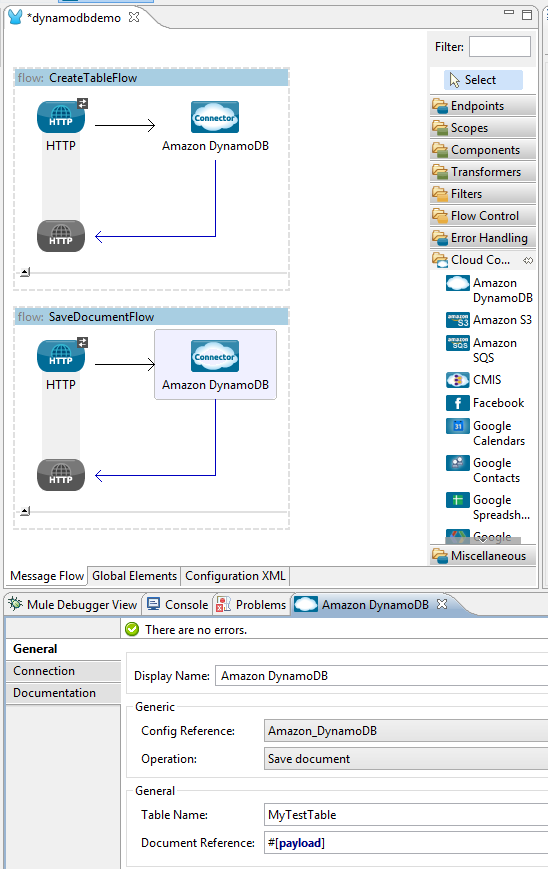
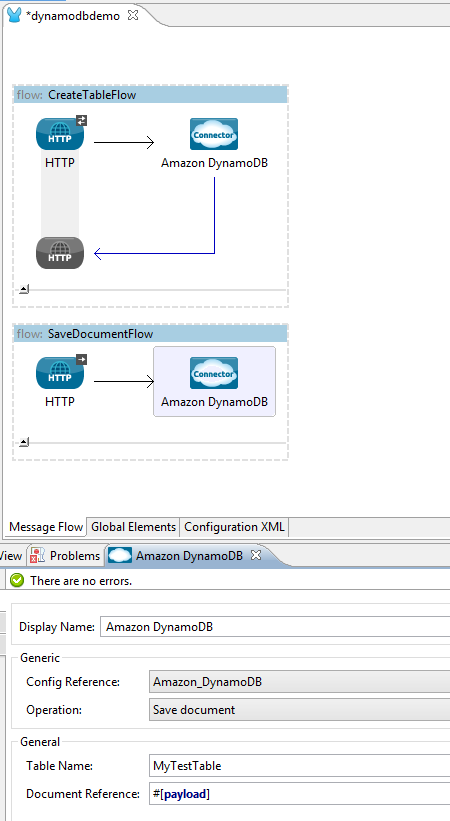
Added instructions to the "Save Document" tutorial

Changed region(s): [[0.0, 0.0, 1.0, 1.0], [0.4978, 0.5786, 0.5289, 0.609]]

diff --git a/doc/sample.md b/doc/sample.md
@@ -45,7 +45,8 @@ In order to build and run this project you'll need:
 * TBD: NOT NEEDED for this documentation?? - (optional) [Intelli-J IDEA](http://www.jetbrains.com/idea/download/) or [Eclipse](http://www.eclipse.org/downloads/)
 
 
-
+The entire Mule Studio project can be found in [GitHub](https://github.com/sporcina/dynamodb-connector/tree/master/dynamodbdemo).  You can download it from there if you don't want to create everything
+from scratch.
 
 
 
@@ -139,7 +140,7 @@ Your **Amazon DynamoDB** endpoint should look like this:
 
 ![Create a table](images/Step3-2.png)
 
-*   To test your flow:
+*   To run your flow:
     *   Select your flow to highlight it
     *   From the **Run** menu, select **Run As** then **Mule Application**
     *   Launch your web browser and navigate to "http://localhost:8081/createTable"
@@ -162,13 +163,14 @@ Now that we have a table, we can save information to it.  For the purpose of thi
 
 *   Create a new flow by again drag-and-dropping the HTTP endpoint from the Palette tool bar, to the Message Flow canvas, below "CreateTableFlow".
 *   Rename it to read **SaveDocumentFlow**
+*   Change the "Exchange Pattern" to **one-way**.  Feel free to keep it at "request-response" if you want to return an HTTP response at the end of the flow.  Creating an HTTP response is not covered in this tutorial.
 *   Type **saveDocument** in the path field
 
 Your screen will look like this:
 
 ![Save a Document - created a new flow](images/Step4-1.png)
 
-*   Again, drag and drop the **Amazon DynamoDB** Cloud Connector from the Palette tool bar, in to the "saveDocument" flow
+*   Again, drag and drop the **Amazon DynamoDB** Cloud Connector from the Palette tool bar, in to the "SaveDocument" flow
 *   Set the "Config Reference" in the properties for the DynamoDB Cloud Connector to "Amazon_DynamoDB"
 *   Change the Operation to "Save document"
 *   In the **Table Name** field, type "MyTestTable".  This is the name of the table we create earlier.
@@ -178,7 +180,43 @@ Your screen will look like this:
 We've got the basics the flow setup, which is very similar to the previous flow we created.  Now we'll add new elements to
 the flow which will help us create and observe data to save to the table.
 
-*
+TBD: does it matter if the reader does not have Java installed?
+
+*   Select the following links to download two files: the fake customer data model, and our message transformer
+    *   [FakeCustomer.java](https://github.com/sporcina/dynamodb-connector/blob/master/dynamodbdemo/src/main/java/org/mule/modules/dynamodb/demo/models/FakeCustomer.java)
+    *   [HttpCreateDocumentToFakeCustomer.java](https://github.com/sporcina/dynamodb-connector/blob/master/dynamodbdemo/src/main/java/org/mule/modules/dynamodb/demo/transformers/HttpCreateDocumentToFakeCustomer.java)
+*   Save "FakeCustomer.java" in a new package "org.mule.modules.dynamodb.demo.models"
+*   Save "HttpCreateDocumentToFakeCustomer.java" in a new package "org.mule.modules.dynamodb.demo.transformers"
+
+Your Mule Studio package explorer should like this:
+
+![Save a Document - package explorer](images/Step4-3.png)
+
+*   Drag the **Java** transformer from the Palette tool bar, and drop it between the HTTP and Amazon DynamoDB elements in the "saveDocument" flow
+*   Go to the properties for the "Java" transformer and change the "Transformer Class" to **HttpCreateDocumentToFakeCustomer**
+
+![Save a Document - added Java transformer](images/Step4-4.png)
+
+*   Now find the **Echo** component in the Palette tool bar and place it after the "Amazon DynamoDB" component.  This will display in the console tab what DynamoDB returns after storing the document
+
+![Save a Document - added echo component](images/Step4-5.png)
+
+*   To run your flow:
+    *   Select the "SaveDocumentFlow" to highlight it
+    *   From the **Run** menu, select **Run As** then **Mule Application**
+    *   Launch your web browser and navigate to "http://localhost:8081/saveDocument?name=Joe&phone=123-123-1234"
+    *   Now go back to Mule Studio and select the **Console** tab.
+
+The log shows an entry for FakeCustomer that includes the data we passed to it through the HTTP query parameters.  You'll
+note that 'num' is assigned a unique identifier.  This unique identifier is generated by DynamoDB when a document is saved.
+This tells you that the document was saved successfully in "MyTestTable".  You could update HttpCreateDocumentToFakeCustomer.java
+to add your own unique id to the FakeCustomer, but its is generally not advised.  You have to ensure that the id you create
+is unique across all documents in the table.  If not you'll overwrite the existing document that ahs the same id.  Unless
+you have a compelling reason too, let DynamoDB assign the document id's for you.
+
+![Save a Document - saved document console](images/Step4-6.png)
+
+*   Terminate your Mule Application instance in Mule Studio **Console** tab and save your project.
 
 ### Step 5: Run the Demo project
 
